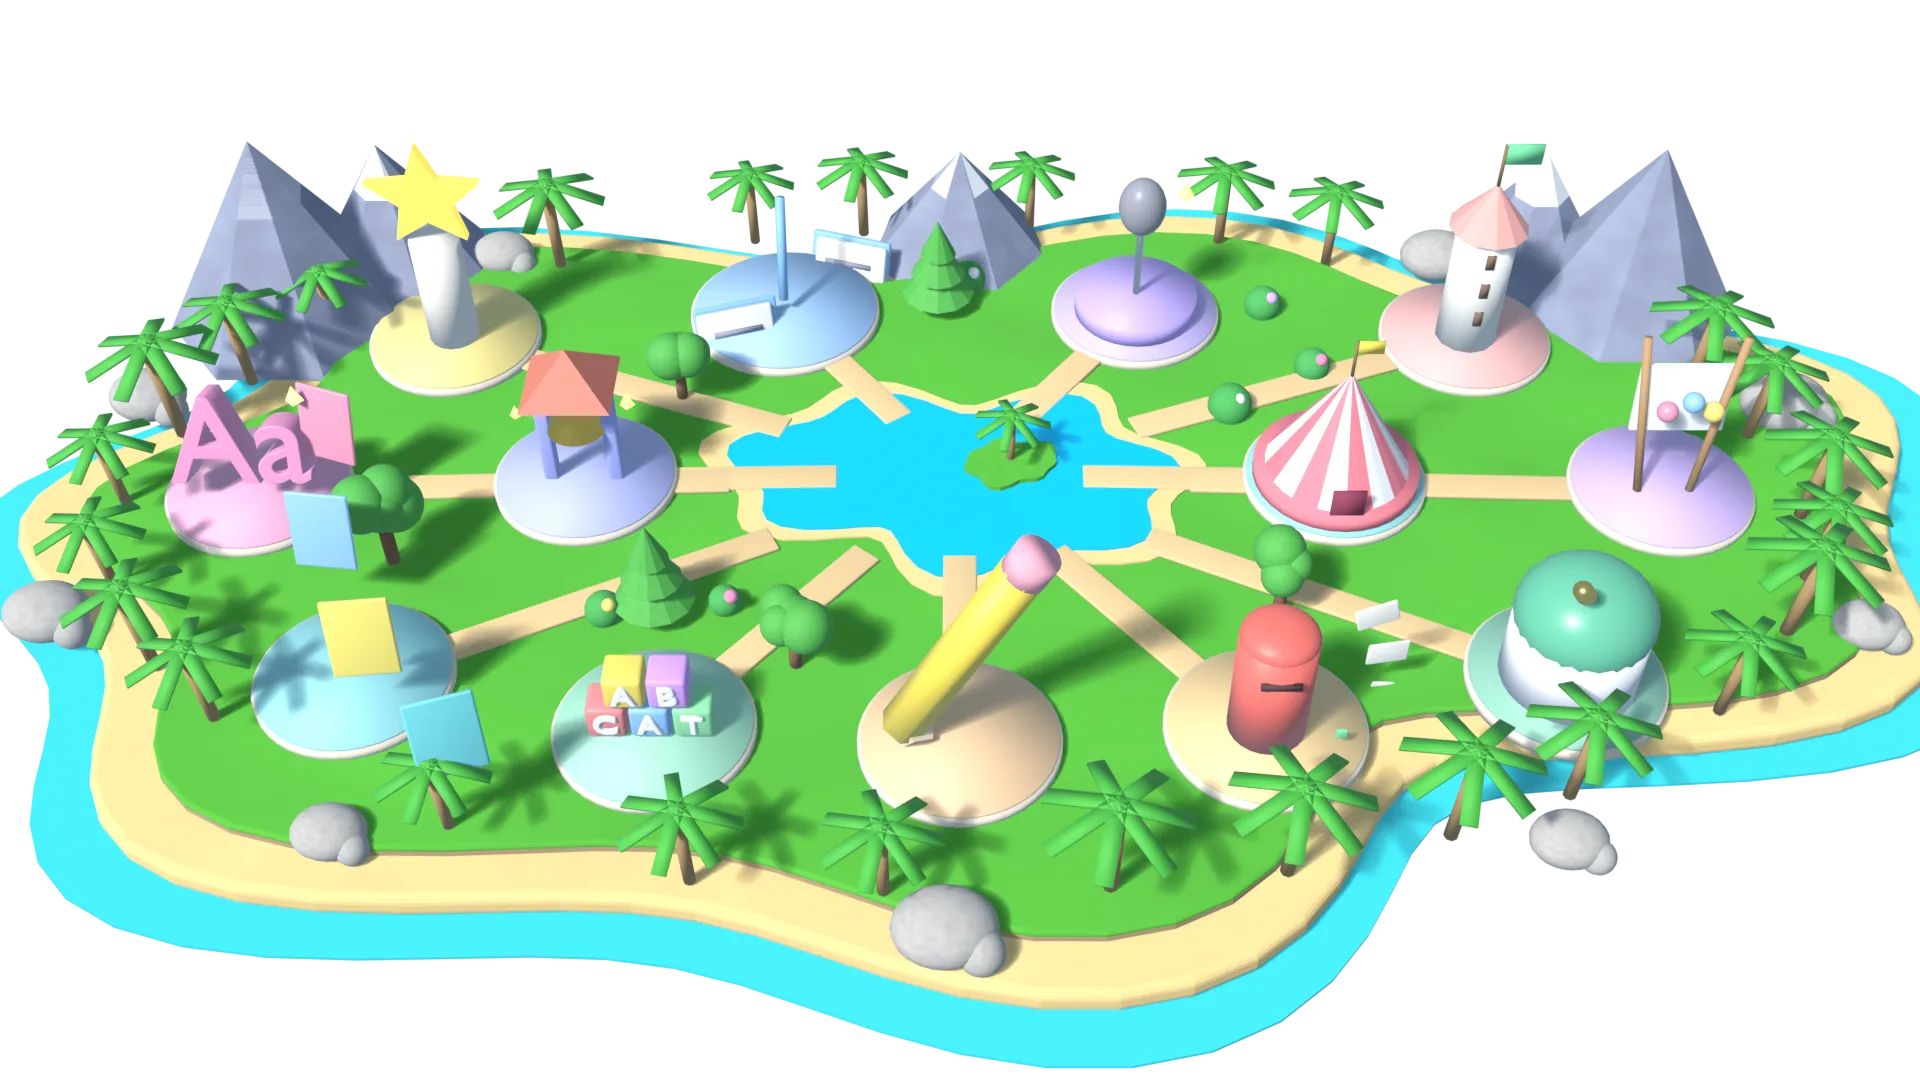
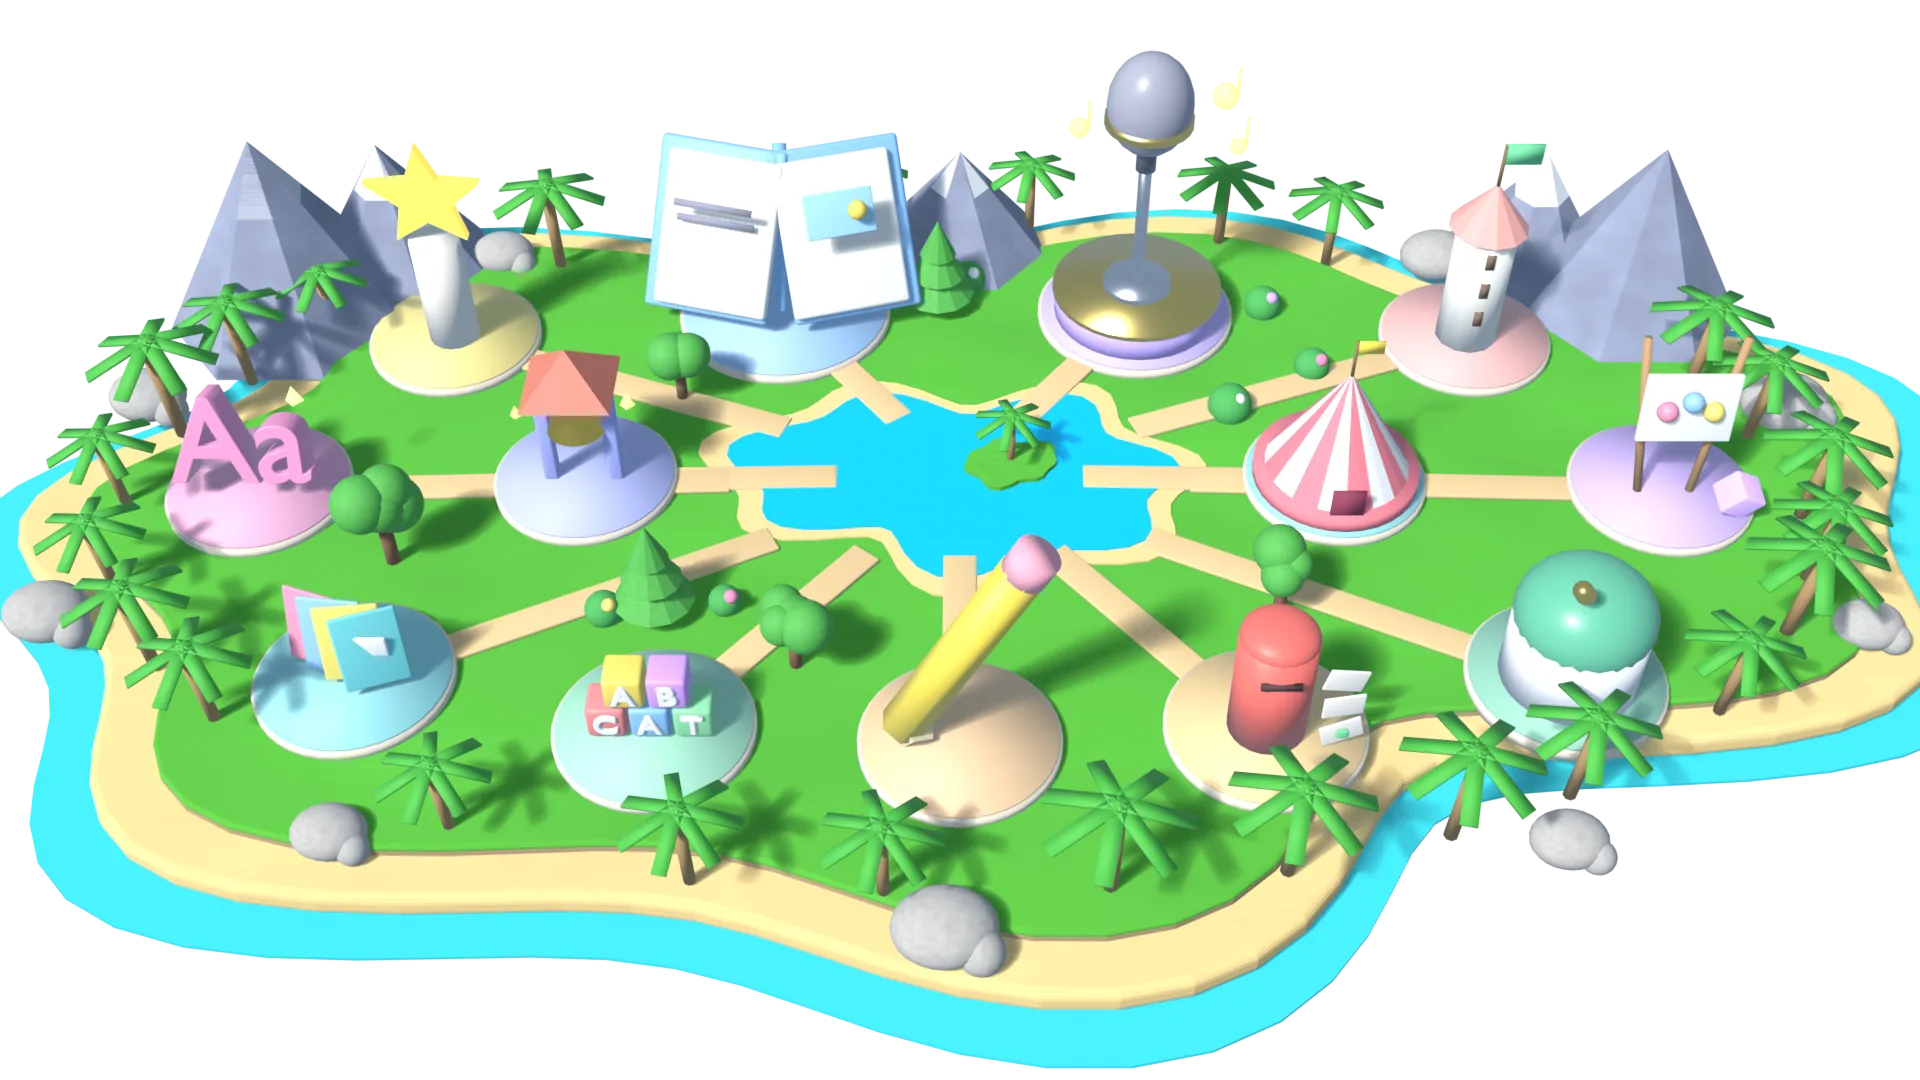
Home island: a bigger book and microphone
Sentences & Stories is now a giant storybook standing open, with lines of
words and a picture; Guided Reading a big stage with a tall microphone and
glowing music notes. Their signs float higher (SIGN_LIFT), and the island
leaves room at the top so the tallest sign isn't clipped.

Tilted boxes now turn about their own centre (island.tilt): box() bakes its
position into the mesh, so setting rotation directly swung them round the
island's centre. That had hidden the book's covers and scattered the
flashcards; both, and the easel and envelopes, now sit where they should.

diff --git a/src/components/HomeIsland.tsx b/src/components/HomeIsland.tsx
@@ -47,11 +47,11 @@ export default function HomeIsland({
       <div aria-hidden className="island-swell absolute inset-0" />
       <div aria-hidden className="island-sparkle absolute inset-0" />
 
-      {/* the island, as big as fits */}
-      <div className="absolute inset-0 flex items-center justify-center p-2" style={{ containerType: "size" }}>
+      {/* the island, as big as fits, with room above for the tallest signs */}
+      <div className="absolute inset-0 flex items-center justify-center px-2 pb-2 pt-10" style={{ containerType: "size" }}>
         <div
           className="island-float relative w-full"
-          style={{ aspectRatio: `${ISLAND_SIZE.w} / ${ISLAND_SIZE.h}`, maxHeight: "100%", maxWidth: `calc((100cqh - 1rem) * ${ISLAND_SIZE.w / ISLAND_SIZE.h})`, containerType: "inline-size" }}
+          style={{ aspectRatio: `${ISLAND_SIZE.w} / ${ISLAND_SIZE.h}`, maxHeight: "100%", maxWidth: `calc((100cqh - 3rem) * ${ISLAND_SIZE.w / ISLAND_SIZE.h})`, containerType: "inline-size" }}
         >
           {/* eslint-disable-next-line @next/next/no-img-element */}
           <img src="/images/home-island.webp" alt="" draggable={false} className="absolute inset-0 h-full w-full select-none" />

diff --git a/src/app/homeIsland.ts b/src/app/homeIsland.ts
@@ -16,8 +16,8 @@ export const ISLAND_SPOTS: Record<string, { sign: [number, number]; foot: [numbe
   },
   "stories": {
     "sign": [
-      40.48,
-      19.16
+      40.14,
+      11.41
     ],
     "foot": [
       40.91,
@@ -26,8 +26,8 @@ export const ISLAND_SPOTS: Record<string, { sign: [number, number]; foot: [numbe
   },
   "guided": {
     "sign": [
-      59.52,
-      19.16
+      60.22,
+      3.08
     ],
     "foot": [
       59.09,

diff --git a/blender/home_island.py b/blender/home_island.py
@@ -53,6 +53,9 @@ ZONES = {
 
 LAGOON = (0.0, 0.3)
 
+# How high above a landmark its sign floats, for the tall ones.
+SIGN_LIFT = {"stories": 1.75, "guided": 2.45}
+
 # Section colours, linear (a touch deeper than the app's pastels, for walls).
 COL = {
     "phonics": (0.95, 0.35, 0.6),
@@ -187,7 +190,7 @@ def lm_flashcards(x, y, c):
     cols = [(1.0, 0.35, 0.5), (0.35, 0.65, 1.0), (1.0, 0.85, 0.2), c]
     for k, col in enumerate(cols):
         card = I.box("Card", (0.4, 0.03, 0.54), (x - 0.2 + k * 0.13, y + 0.12 - k * 0.07, 0.42 + k * 0.015), I.material("Card", col, rough=0.5), bevel=0.02)
-        card.rotation_euler = (math.radians(-12), 0, math.radians(-20 + k * 13))
+        I.tilt(card, (math.radians(-12), 0, math.radians(-20 + k * 13)))
     I.box("Pic", (0.2, 0.02, 0.16), (x + 0.2, y - 0.1, 0.5), I.material("Pic", (1, 1, 1)), bevel=0.01)
 
 
@@ -220,20 +223,27 @@ def lm_tricky(x, y, c):
 
 
 def lm_stories(x, y, c):
-    pad(x, y, c, r=0.7)
+    pad(x, y, c, r=0.78)
     page = I.material("Page", (1.0, 0.98, 0.92), rough=0.6)
     cover = I.material("Cover", c, rough=0.5)
     ink = I.material("Ink", (0.35, 0.35, 0.45))
-    # A big storybook standing open, leaning back, like a sign.
+    # A giant storybook standing open, leaning back so its pages face the
+    # viewer, with lines of words and a picture.
+    tilt = math.radians(-32)
     for side in (-1, 1):
-        cv = I.box("Cover", (0.62, 0.05, 0.78), (x + side * 0.31, y + 0.06, 0.62), cover, bevel=0.02)
-        cv.rotation_euler = (math.radians(-18), 0, math.radians(side * 18))
-        pg = I.box("Pages", (0.56, 0.06, 0.7), (x + side * 0.29, y + 0.0, 0.63), page, bevel=0.02)
-        pg.rotation_euler = (math.radians(-18), 0, math.radians(side * 18))
-        for k in range(4):
-            ln = I.box("Line", (0.36, 0.02, 0.035), (x + side * 0.3, y - 0.045 + k * 0.03, 0.82 - k * 0.11), ink, bevel=0)
-            ln.rotation_euler = (math.radians(-18), 0, math.radians(side * 18))
-    W.cylinder(0.035, 0.78, (x, y + 0.08, 0.62), cover, vertices=8).rotation_euler = (math.radians(-18), 0, 0)
+        cv = I.box("Cover", (0.95, 0.07, 1.25), (x + side * 0.47, y + 0.1, 0.78), cover, bevel=0.03)
+        I.tilt(cv, (tilt, 0, math.radians(side * 16)))
+        pg = I.box("Pages", (0.86, 0.09, 1.12), (x + side * 0.44, y + 0.02, 0.8), page, bevel=0.03)
+        I.tilt(pg, (tilt, 0, math.radians(side * 16)))
+        for k in range(5):
+            if side == 1 and k < 2:
+                continue
+            ln = I.box("Line", (0.58, 0.02, 0.05), (x + side * 0.45, y - 0.08 + k * 0.06, 1.1 - k * 0.17), ink, bevel=0)
+            I.tilt(ln, (tilt, 0, math.radians(side * 16)))
+    pic = I.box("Picture", (0.5, 0.02, 0.32), (x + 0.45, y - 0.12, 1.08), I.material("BookPic", (0.4, 0.75, 1.0)), bevel=0.01)
+    I.tilt(pic, (tilt, 0, math.radians(16)))
+    sunpic = I.blob((x + 0.58, y - 0.16, 1.14), 0.07, I.material("BookSun", (1.0, 0.8, 0.15)))
+    W.cylinder(0.05, 1.2, (x, y + 0.12, 0.78), cover, vertices=8).rotation_euler = (tilt, 0, 0)
 
 
 def lm_storyplay(x, y, c):
@@ -246,13 +256,21 @@ def lm_storyplay(x, y, c):
 
 
 def lm_guided(x, y, c):
-    pad(x, y, c)
-    W.cylinder(0.45, 0.16, (x, y, 0.2), I.material("Stage", c, rough=0.5), vertices=32)
+    pad(x, y, c, r=0.72)
+    # A big stage with a giant microphone on a stand.
+    W.cylinder(0.6, 0.22, (x, y, 0.22), I.material("Stage", c, rough=0.5), vertices=32)
+    W.cylinder(0.62, 0.04, (x, y, 0.34), W.metal("StageRim", (1.0, 0.75, 0.25)), vertices=32)
     metal = W.metal("Mic", (0.8, 0.82, 0.88))
-    W.cylinder(0.025, 0.7, (x, y, 0.62), metal, vertices=8)
-    head = I.blob((x, y, 1.05), 0.17, I.material("MicHead", (0.35, 0.35, 0.4), rough=0.4))
-    head.scale = (1, 1, 1.3)
-    W.cone(0.06, 0.0, 0.12, (x + 0.3, y, 1.2), W.glow_material("Note", (1, 0.85, 0.2), 1.5), vertices=4)
+    W.cylinder(0.25, 0.05, (x, y, 0.38), metal, vertices=24)
+    W.cylinder(0.045, 1.1, (x, y, 0.95), metal, vertices=12)
+    W.cylinder(0.07, 0.35, (x, y, 1.55), I.material("Grip", (0.15, 0.15, 0.2), rough=0.4), vertices=16)
+    head = I.blob((x, y, 1.9), 0.3, I.material("MicHead", (0.4, 0.4, 0.48), rough=0.35))
+    head.scale = (1, 1, 1.25)
+    W.cylinder(0.31, 0.06, (x, y, 1.78), W.metal("MicBand", (1.0, 0.75, 0.25)), vertices=24)
+    note = W.glow_material("Note", (1, 0.85, 0.2), 1.5)
+    for (dx, dz, r) in ((0.5, 2.0, 0.09), (-0.48, 1.75, 0.07), (0.62, 1.6, 0.06)):
+        I.blob((x + dx, y - 0.05, dz), r, note)
+        W.cylinder(0.012, 0.22, (x + dx + r * 0.9, y - 0.05, dz + 0.11), note, vertices=6)
 
 
 def lm_assessment(x, y, c):
@@ -272,11 +290,11 @@ def lm_threed(x, y, c):
         leg = W.cylinder(0.03, 1.2, (x + dx, y + 0.05, 0.7), wood, vertices=8)
         leg.rotation_euler = (math.radians(-10), math.radians(dx * 30), 0)
     canvas = I.box("Canvas", (0.62, 0.04, 0.5), (x, y - 0.03, 0.85), I.material("Canvas", (1, 1, 1)), bevel=0.01)
-    canvas.rotation_euler = (math.radians(-10), 0, 0)
+    I.tilt(canvas, (math.radians(-10), 0, 0))
     for k, col in enumerate([(1.0, 0.35, 0.5), (0.35, 0.65, 1.0), (1.0, 0.8, 0.2)]):
         I.blob((x - 0.15 + k * 0.15, y - 0.07, 0.85 + (k % 2) * 0.08), 0.07, I.material("Paint", col, rough=0.4))
     cube = I.box("Cube3D", (0.22, 0.22, 0.22), (x + 0.42, y - 0.25, 0.28), W.glow_material("Cube", c, 0.4), bevel=0.02)
-    cube.rotation_euler = (math.radians(20), math.radians(30), math.radians(15))
+    I.tilt(cube, (math.radians(20), math.radians(30), math.radians(15)))
 
 
 def lm_assignments(x, y, c):
@@ -288,7 +306,7 @@ def lm_assignments(x, y, c):
     I.box("Slot", (0.24, 0.03, 0.04), (x, y - 0.24, 0.75), I.material("SlotDark", (0.1, 0.05, 0.05)), bevel=0)
     for k in range(3):
         env = I.box("Letter", (0.26, 0.02, 0.17), (x + 0.42, y - 0.15 + k * 0.05, 0.25 + k * 0.17), I.material("Envelope", (1, 0.97, 0.88)), bevel=0.01)
-        env.rotation_euler = (0, math.radians(-15 + k * 15), math.radians(10))
+        I.tilt(env, (0, math.radians(-15 + k * 15), math.radians(10)))
     I.box("Tick", (0.07, 0.025, 0.07), (x + 0.42, y - 0.17, 0.25), I.material("TickGreen", (0.2, 0.75, 0.35)), bevel=0.01)
 
 
@@ -406,7 +424,8 @@ def build():
     # Where each landmark lands on the picture: the sign goes above it.
     spots = {}
     for zone, (zx, zy) in ZONES.items():
-        top = world_to_camera_view(scene, cam, Vector((zx, zy, 1.05)))
+        lift = SIGN_LIFT.get(zone, 1.05)
+        top = world_to_camera_view(scene, cam, Vector((zx, zy, lift)))
         foot = world_to_camera_view(scene, cam, Vector((zx, zy, 0.1)))
         spots[zone] = {
             "sign": [round(top.x * 100, 2), round((1 - top.y) * 100, 2)],
